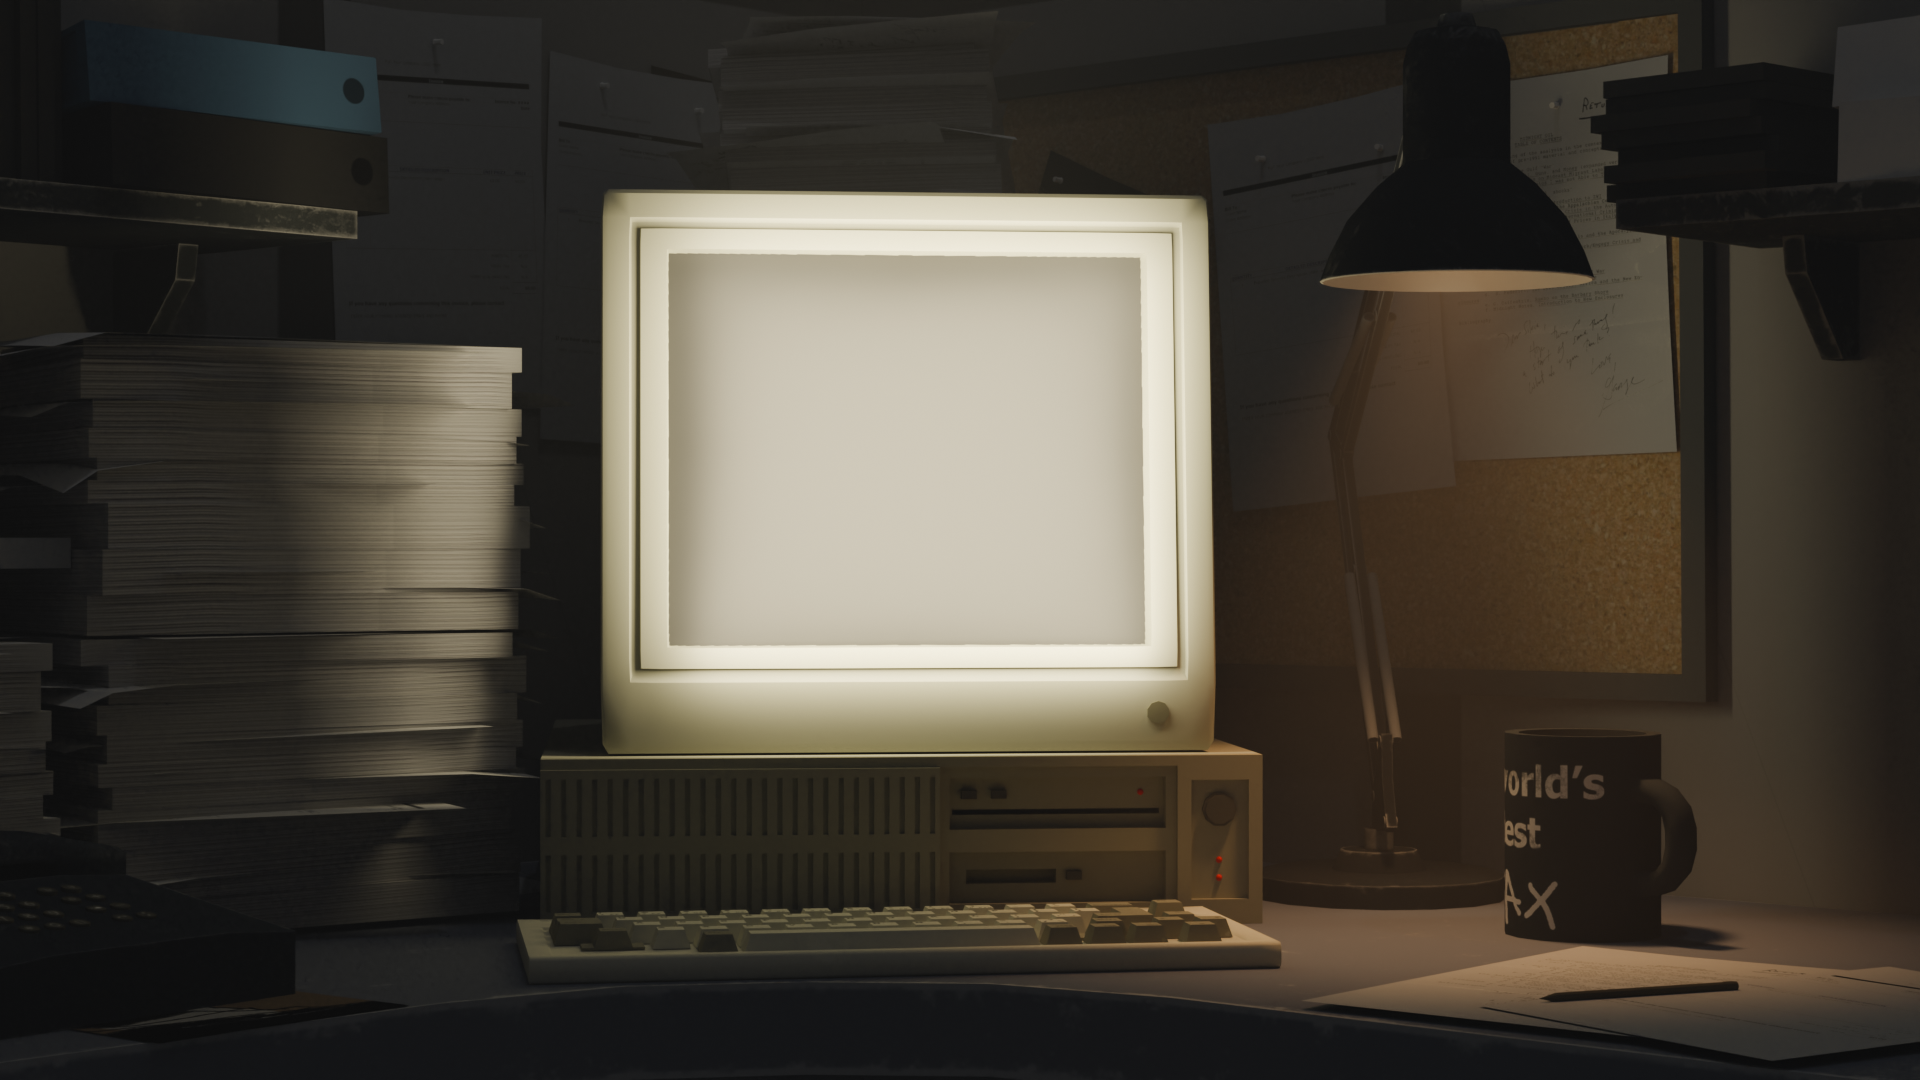
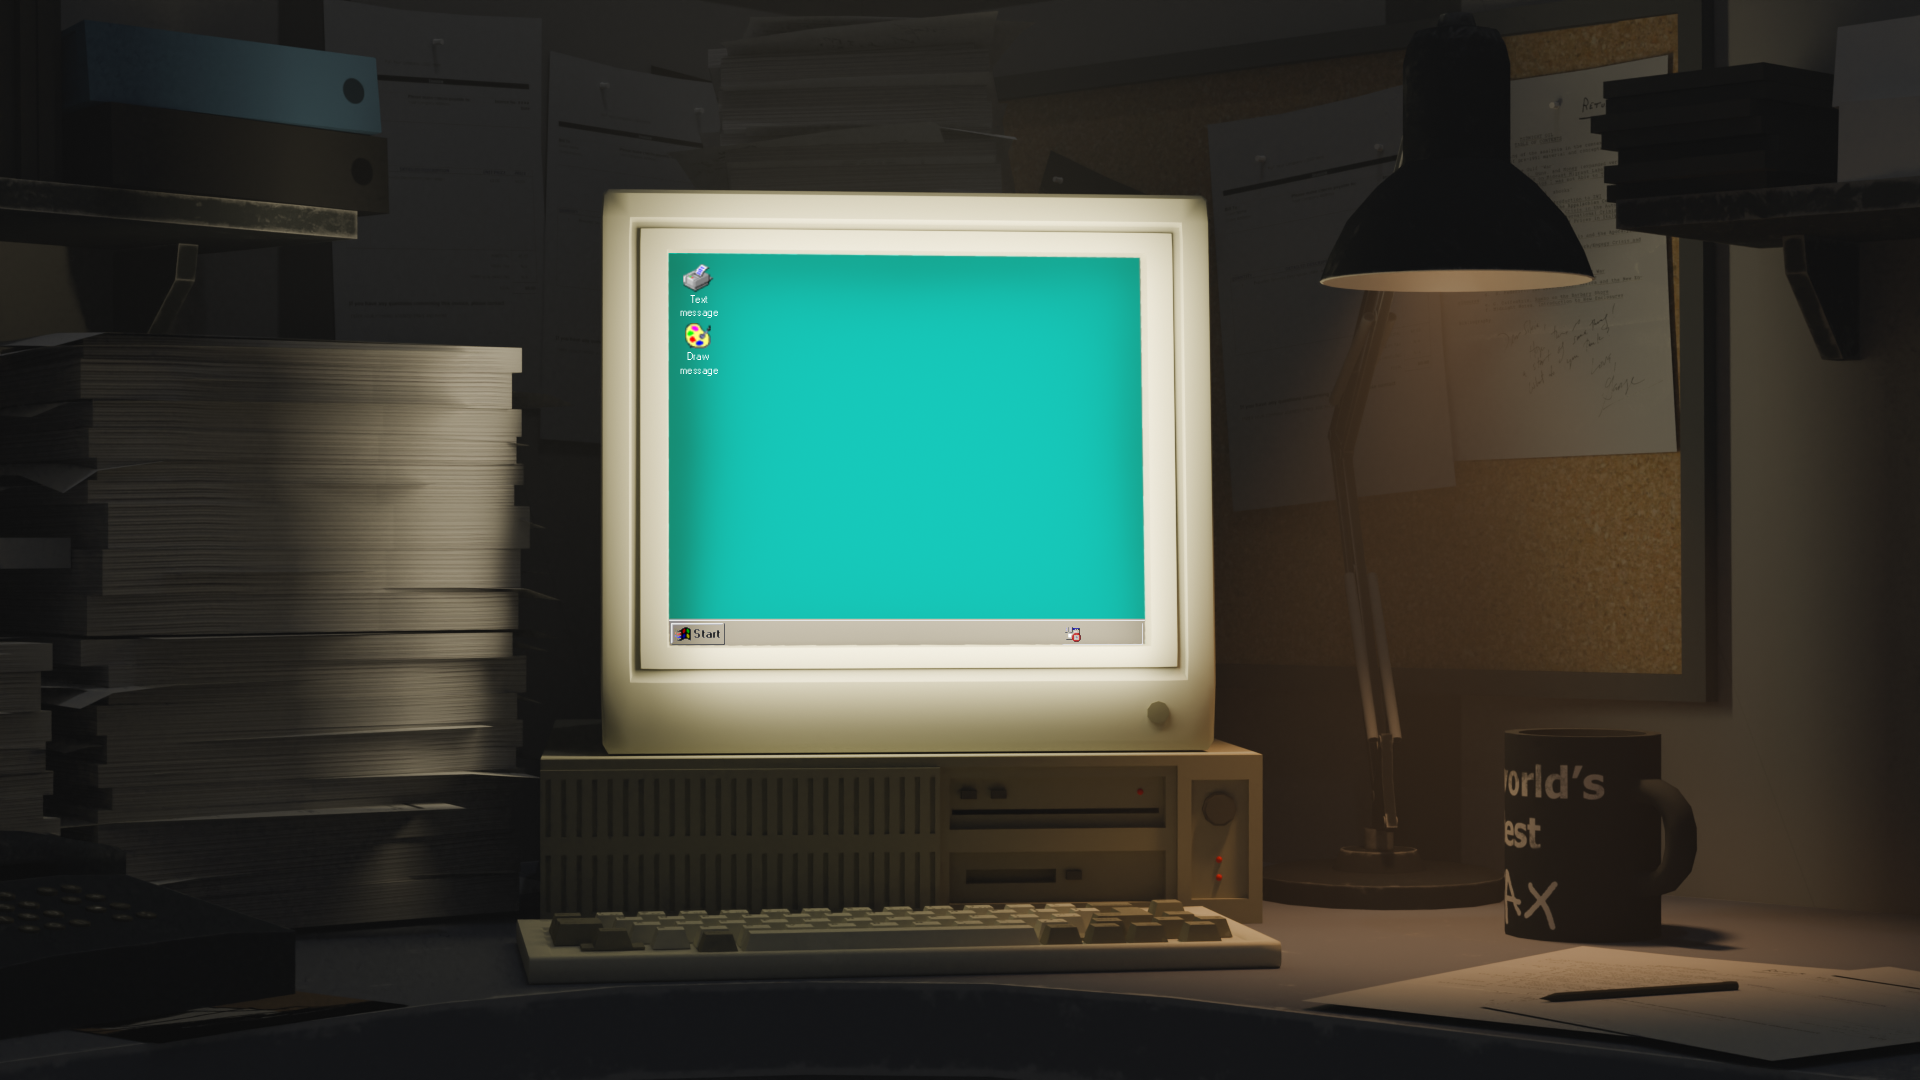
UI update

Changed region(s): [[0.3438, 0.2139, 0.5938, 0.6111]]

diff --git a/app/src/App.css b/app/src/App.css
@@ -1,7 +1,7 @@
 .bg {
   width: 100vw;
   height: 100vh;
-  background-image: url("assets/fax_desk_long.png");
+  background-image: url("assets/fax_desk_long-text.png");
 }
 
 form {
